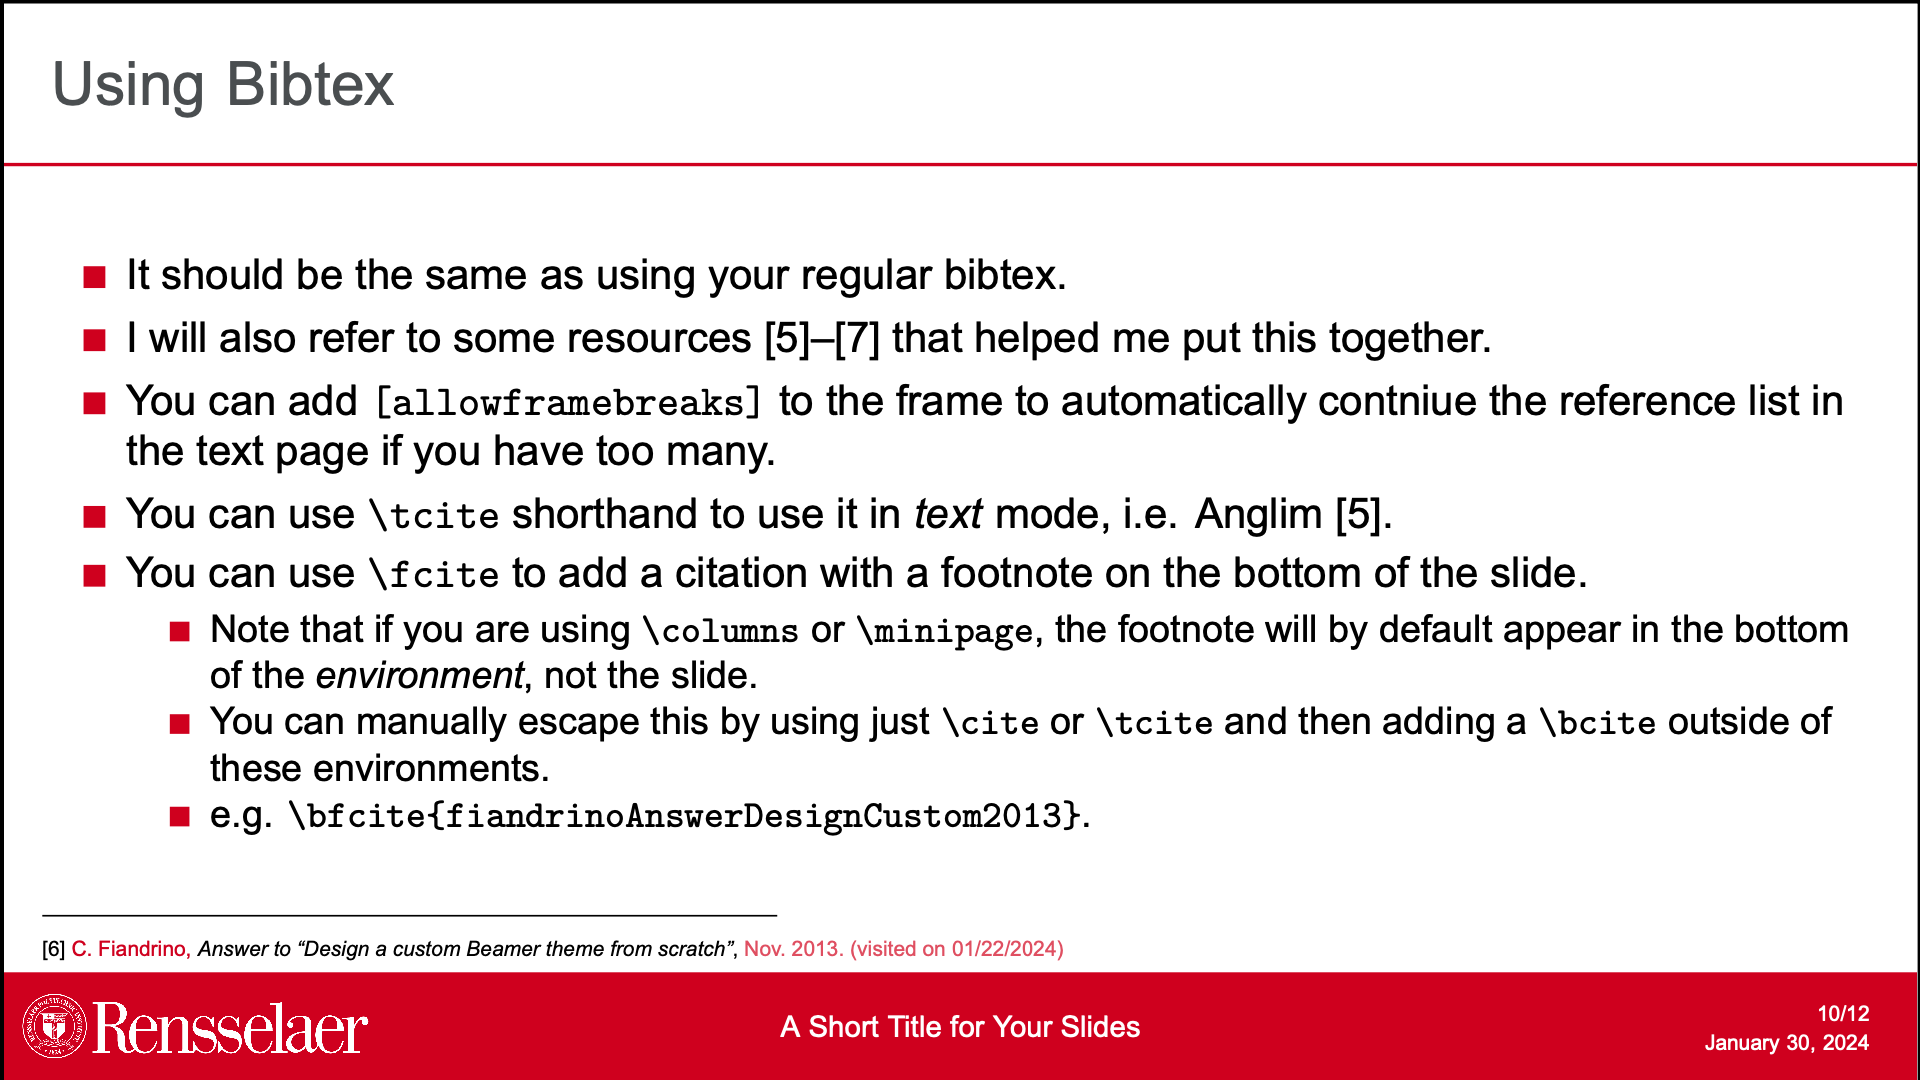
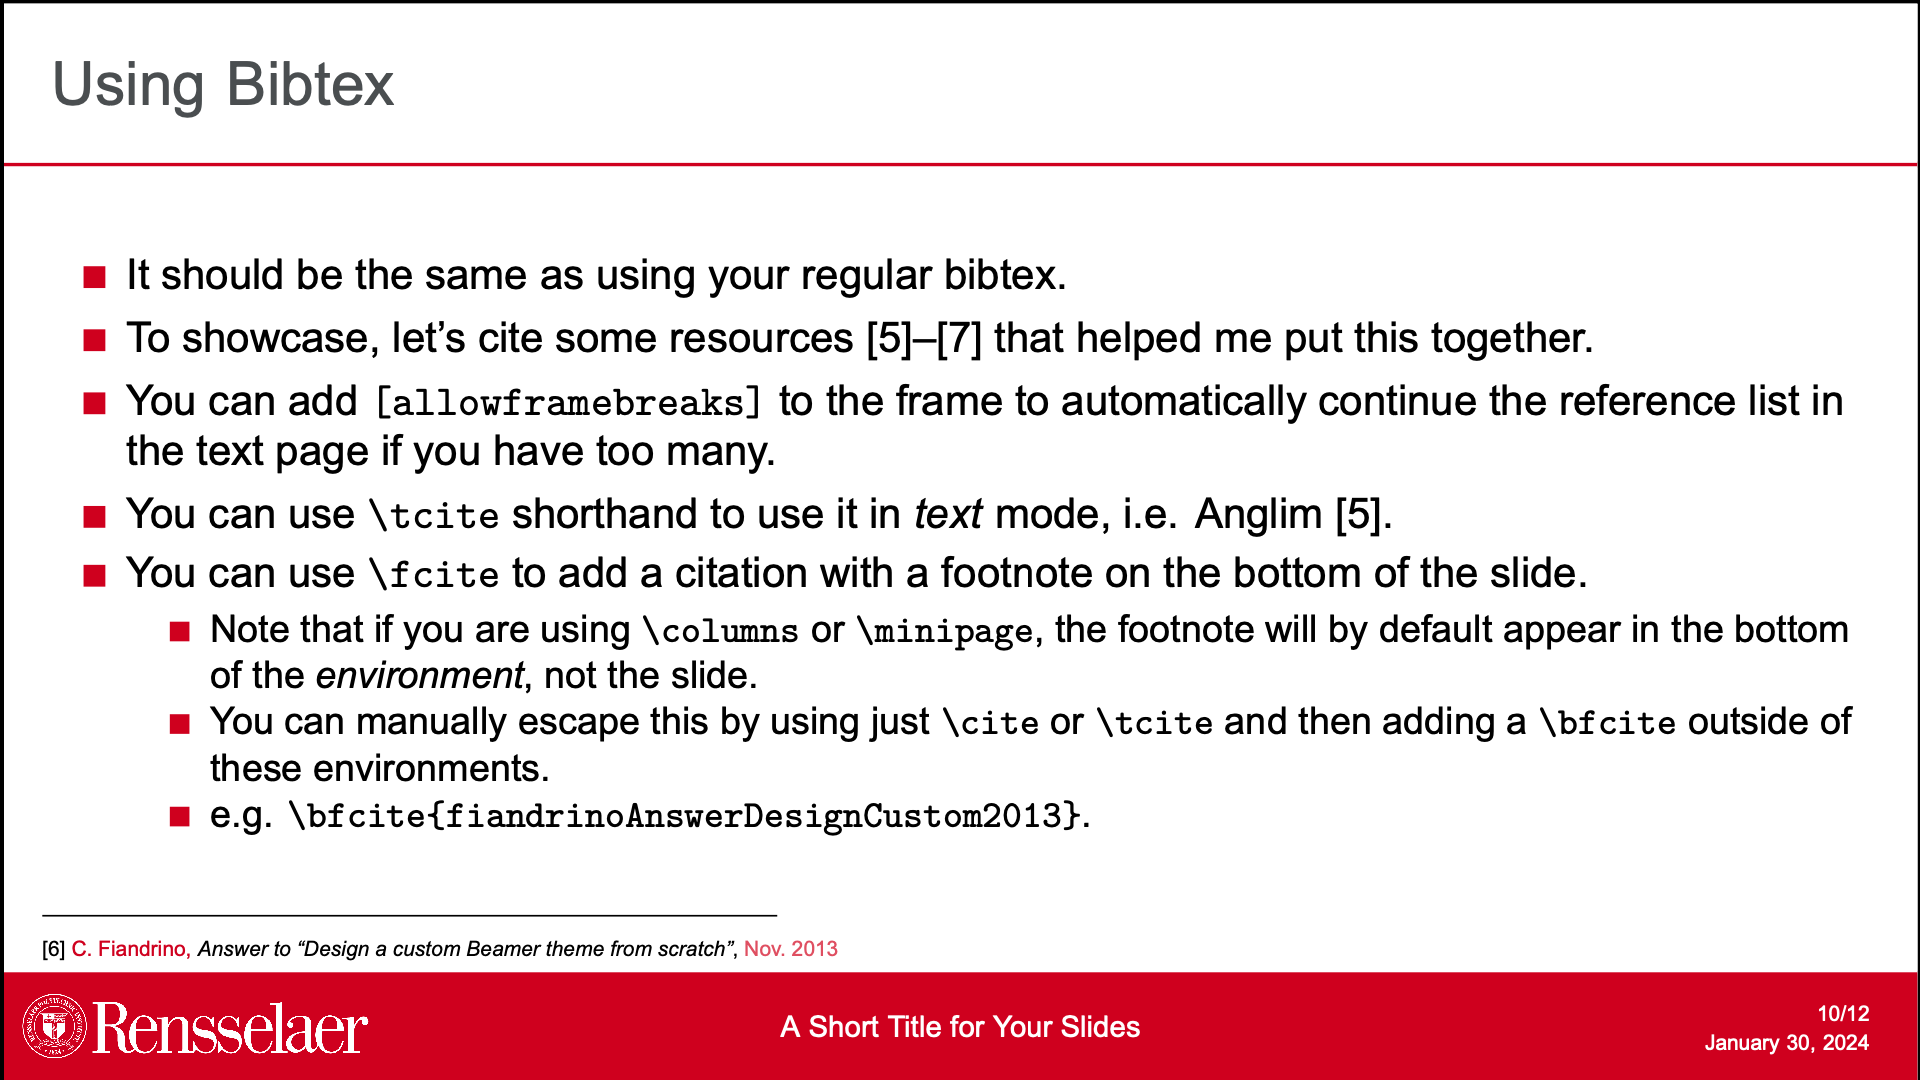
figured out how to control footcite.

diff --git a/main.tex b/main.tex
@@ -281,13 +281,13 @@
 	\frametitle{Using Bibtex}
 	\begin{itemize}
 		\item It should be the same as using your regular bibtex.
-		\item I will also refer to some resources~\cite{anglimAnswerImageFull2010,fiandrinoAnswerDesignCustom2013,kormyloAnswerMakeTikz2017} that helped me put this together.
-		\item You can add \texttt{[allowframebreaks]} to the frame to automatically contniue the reference list in the text page if you have too many.
+		\item To showcase, let's cite some resources~\cite{anglimAnswerImageFull2010,fiandrinoAnswerDesignCustom2013,kormyloAnswerMakeTikz2017} that helped me put this together.
+		\item You can add \texttt{[allowframebreaks]} to the frame to automatically continue the reference list in the text page if you have too many.
 		\item You can use \texttt{\textbackslash tcite} shorthand to use it in \textit{text} mode, i.e. \tcite{anglimAnswerImageFull2010}.
 		\item You can use \texttt{\textbackslash fcite} to add a citation with a footnote on the bottom of the slide.
 		      \begin{itemize}
 			      \item Note that if you are using \texttt{\textbackslash columns} or \texttt{\textbackslash minipage}, the footnote will by default appear in the bottom of the \textit{environment}, not the slide.
-			      \item You can manually escape this by using just \texttt{\textbackslash cite} or \texttt{\textbackslash tcite} and then adding a \texttt{\textbackslash bcite} outside of these environments.
+			      \item You can manually escape this by using just \texttt{\textbackslash cite} or \texttt{\textbackslash tcite} and then adding a \texttt{\textbackslash bfcite} outside of these environments.
 			      \item e.g. \texttt{\textbackslash bfcite\{fiandrinoAnswerDesignCustom2013\}}.
 		      \end{itemize}
 	\end{itemize}
@@ -301,6 +301,7 @@
 		\item I tried to use relative values for margins and header/sizes where I could. It should scale well with different page sizes.
 		\item I compiled this project with xelatex. I do not know if this will compile well on overleaf since the free version has extreme timeouts now.
 	\end{itemize}
+  \fcite{cazenavetteDatasetDistillationMatching2022}
 \end{frame}
 
 \begin{frame}[allowframebreaks]
